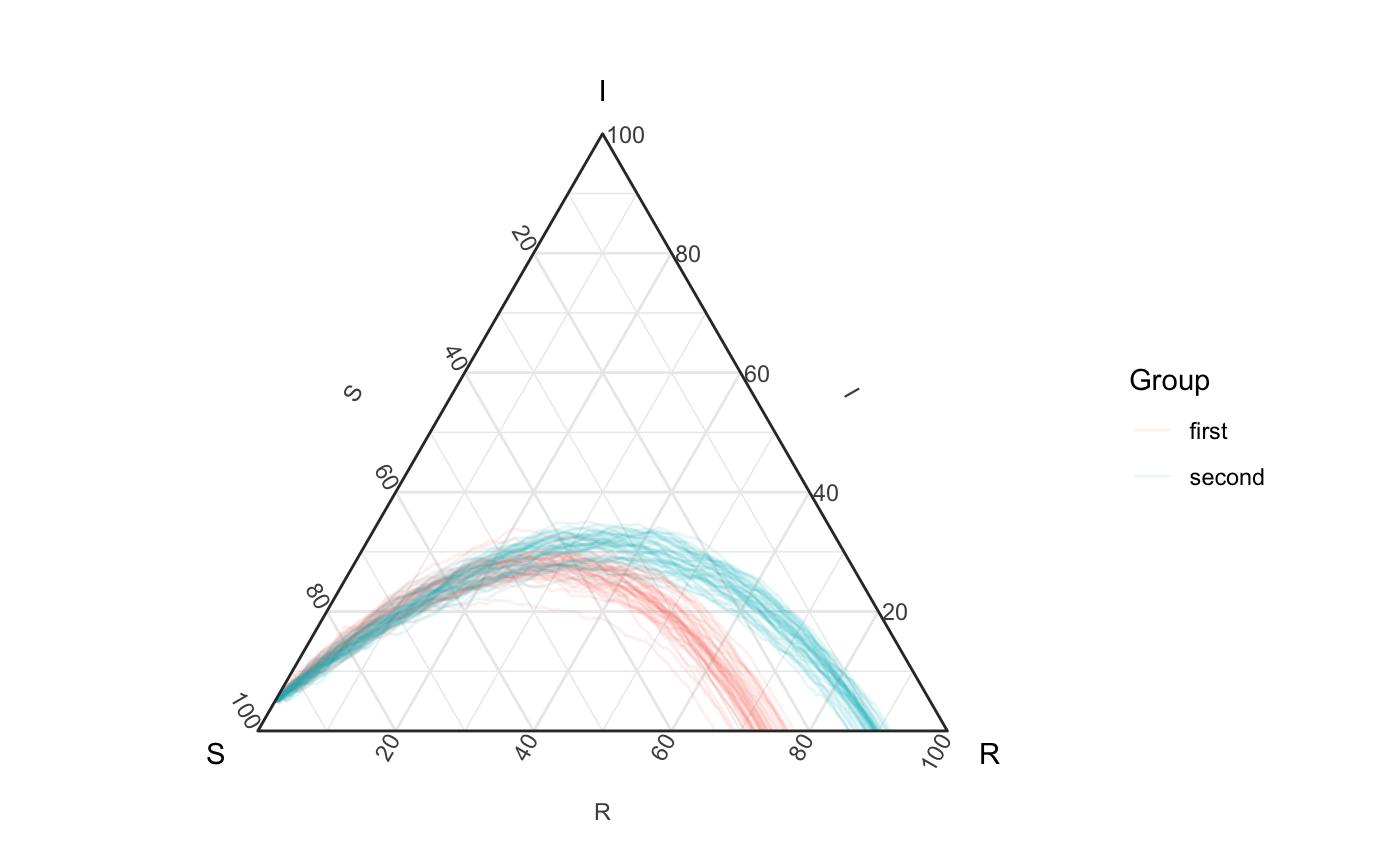
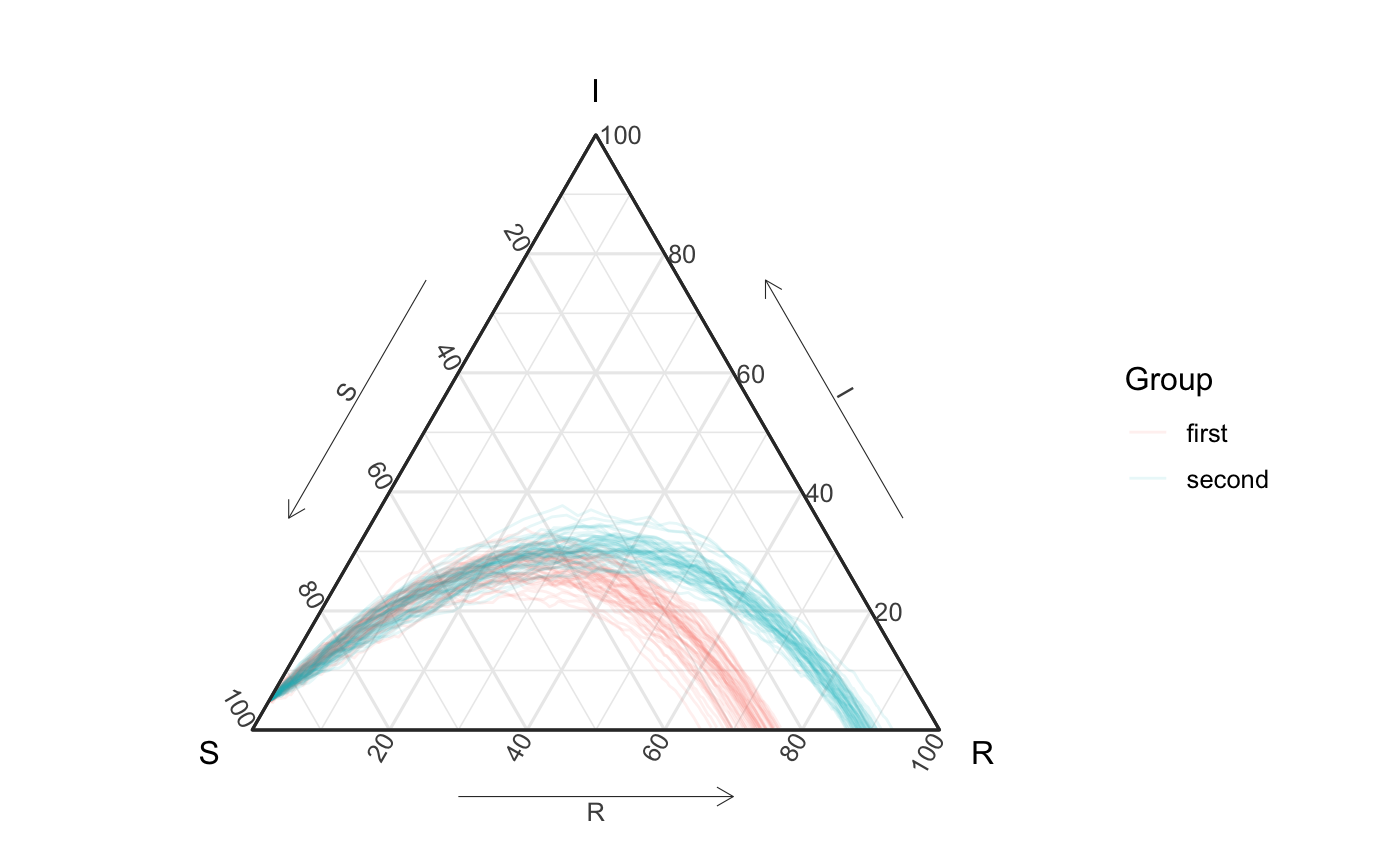
theme_sir corrected

diff --git a/docs/articles/getting-started.html b/docs/articles/getting-started.html
@@ -135,7 +135,7 @@
 <p>Our first example comes from a Measles outbreak in Hagelloch, Germany in 1861. We have data on each child (agent) in the town.The data we use (as seen below) has each child’s information relative to when they were reported to be infected and recovered, information on their school class.</p>
 <div class="sourceCode" id="cb3"><html><body><pre class="r"><span class="co">## Visualizing epidemic progression using EpiCompare</span>
 <span class="fu"><a href="https://rdrr.io/r/base/library.html">library</a></span>(<span class="no">kableExtra</span>)
-<span class="kw pkg">EpiCompare</span><span class="kw ns">::</span><span class="no">hagelloch_raw</span> <span class="kw">%&gt;%</span> <span class="fu"><a href="https://rdrr.io/r/utils/head.html">head</a></span>() <span class="kw">%&gt;%</span>
+<span class="kw pkg">EpiCompare</span><span class="kw ns">::</span><span class="no"><a href="https://rdrr.io/pkg/EpiCompare/man/hagelloch_raw.html">hagelloch_raw</a></span> <span class="kw">%&gt;%</span> <span class="fu"><a href="https://rdrr.io/r/utils/head.html">head</a></span>() <span class="kw">%&gt;%</span>
   <span class="fu"><a href="https://dplyr.tidyverse.org/reference/select.html">select</a></span>(<span class="no">PN</span>, <span class="no">NAME</span>, <span class="no">AGE</span>, <span class="no">SEX</span>,
          <span class="no">tPRO</span>, <span class="no">tERU</span>, <span class="no">tI</span>, <span class="no">tR</span>) <span class="kw">%&gt;%</span>
   <span class="kw pkg">knitr</span><span class="kw ns">::</span><span class="fu"><a href="https://rdrr.io/pkg/knitr/man/kable.html">kable</a></span>() <span class="kw">%&gt;%</span>
@@ -327,11 +327,11 @@ male
 </tbody>
 </table>
 <p>To understand to epidemic we can examine it through an “aggregate” lense (using <code>geom_aggregate</code>), which aggregates across agents to find the number of susceptible, infectious, and recovered, and plots them in the ternary view.</p>
-<div class="sourceCode" id="cb4"><html><body><pre class="r"><span class="fu"><a href="https://ggplot2.tidyverse.org/reference/theme_get.html">theme_set</a></span>(<span class="fu">theme_sir</span>())
+<div class="sourceCode" id="cb4"><html><body><pre class="r"><span class="fu"><a href="https://ggplot2.tidyverse.org/reference/theme_get.html">theme_set</a></span>(<span class="fu"><a href="https://rdrr.io/pkg/EpiCompare/man/theme_sir.html">theme_sir</a></span>())
 
 <span class="no">hagelloch_raw</span> <span class="kw">%&gt;%</span>
   <span class="fu"><a href="https://ggplot2.tidyverse.org/reference/ggplot.html">ggplot</a></span>(<span class="fu"><a href="https://ggplot2.tidyverse.org/reference/aes.html">aes</a></span>(<span class="kw">y</span> <span class="kw">=</span> <span class="no">tI</span>, <span class="kw">z</span> <span class="kw">=</span> <span class="no">tR</span>)) +
-    <span class="fu">geom_aggregate</span>() +
+    <span class="fu"><a href="https://rdrr.io/pkg/EpiCompare/man/stat_aggregate.html">geom_aggregate</a></span>() +
     <span class="fu"><a href="https://rdrr.io/pkg/ggtern/man/coord_tern.html">coord_tern</a></span>() +
     <span class="fu"><a href="https://ggplot2.tidyverse.org/reference/labs.html">labs</a></span>(<span class="kw">x</span> <span class="kw">=</span> <span class="st">"S"</span>, <span class="kw">y</span> <span class="kw">=</span> <span class="st">"I"</span>, <span class="kw">z</span> <span class="kw">=</span> <span class="st">"R"</span>, <span class="kw">title</span> <span class="kw">=</span> <span class="st">"Town analysis"</span>)
 <span class="co">#&gt; Coordinate system already present. Adding new coordinate system, which will replace the existing one.</span></pre></body></html></div>
@@ -381,7 +381,7 @@ preschool
 </table>
 <div class="sourceCode" id="cb6"><html><body><pre class="r"><span class="no">hagelloch_raw</span> <span class="kw">%&gt;%</span>
    <span class="fu"><a href="https://ggplot2.tidyverse.org/reference/ggplot.html">ggplot</a></span>(<span class="fu"><a href="https://ggplot2.tidyverse.org/reference/aes.html">aes</a></span>(<span class="kw">y</span> <span class="kw">=</span> <span class="no">tI</span>, <span class="kw">z</span> <span class="kw">=</span> <span class="no">tR</span>, <span class="kw">color</span> <span class="kw">=</span> <span class="no">CL</span>)) +
-       <span class="fu">geom_aggregate</span>() +
+       <span class="fu"><a href="https://rdrr.io/pkg/EpiCompare/man/stat_aggregate.html">geom_aggregate</a></span>() +
        <span class="fu"><a href="https://rdrr.io/pkg/ggtern/man/coord_tern.html">coord_tern</a></span>() +
        <span class="fu"><a href="https://ggplot2.tidyverse.org/reference/labs.html">labs</a></span>(<span class="kw">x</span> <span class="kw">=</span> <span class="st">"S"</span>, <span class="kw">y</span> <span class="kw">=</span> <span class="st">"I"</span>, <span class="kw">z</span> <span class="kw">=</span> <span class="st">"R"</span>,
             <span class="kw">color</span> <span class="kw">=</span> <span class="st">"School grade"</span>,
@@ -403,17 +403,17 @@ preschool
 <span class="no">gamma</span> <span class="kw">&lt;-</span> <span class="fl">.03</span>
 <span class="no">init_SIR</span> <span class="kw">&lt;-</span> <span class="fu"><a href="https://rdrr.io/r/base/c.html">c</a></span>(<span class="fl">950</span>, <span class="fl">50</span>, <span class="fl">0</span>)
 
-<span class="no">out</span> <span class="kw">&lt;-</span> <span class="kw pkg">EpiCompare</span><span class="kw ns">::</span><span class="fu">simulate_SIR_agents</span>(<span class="kw">n_sims</span> <span class="kw">=</span> <span class="no">n_sims</span>,
+<span class="no">out</span> <span class="kw">&lt;-</span> <span class="kw pkg">EpiCompare</span><span class="kw ns">::</span><span class="fu"><a href="https://rdrr.io/pkg/EpiCompare/man/simulate_SIR_agents.html">simulate_SIR_agents</a></span>(<span class="kw">n_sims</span> <span class="kw">=</span> <span class="no">n_sims</span>,
                                  <span class="kw">n_time_steps</span> <span class="kw">=</span> <span class="no">n_time_steps</span>,
                                  <span class="kw">beta</span> <span class="kw">=</span> <span class="no">beta</span>, <span class="kw">gamma</span> <span class="kw">=</span> <span class="no">gamma</span>,
                                  <span class="kw">init_SIR</span> <span class="kw">=</span> <span class="no">init_SIR</span>)
 
-<span class="no">df_ave</span> <span class="kw">&lt;-</span> <span class="no">out</span> <span class="kw">%&gt;%</span> <span class="fu">agents_to_aggregate</span>(<span class="kw">states</span> <span class="kw">=</span> <span class="fu"><a href="https://rdrr.io/r/base/c.html">c</a></span>(<span class="no">tI</span>, <span class="no">tR</span>)) <span class="kw">%&gt;%</span>
+<span class="no">df_ave</span> <span class="kw">&lt;-</span> <span class="no">out</span> <span class="kw">%&gt;%</span> <span class="fu"><a href="https://rdrr.io/pkg/EpiCompare/man/agents_to_aggregate.html">agents_to_aggregate</a></span>(<span class="kw">states</span> <span class="kw">=</span> <span class="fu"><a href="https://rdrr.io/r/base/c.html">c</a></span>(<span class="no">tI</span>, <span class="no">tR</span>)) <span class="kw">%&gt;%</span>
   <span class="fu"><a href="https://dplyr.tidyverse.org/reference/select.html">rename</a></span>(<span class="kw">S</span> <span class="kw">=</span> <span class="st">"X0"</span>, <span class="kw">I</span> <span class="kw">=</span> <span class="st">"X1"</span>, <span class="kw">R</span> <span class="kw">=</span> <span class="st">"X2"</span>) <span class="kw">%&gt;%</span>
   <span class="fu"><a href="https://dplyr.tidyverse.org/reference/group_by.html">group_by</a></span>(<span class="no">t</span>) <span class="kw">%&gt;%</span> <span class="fu"><a href="https://dplyr.tidyverse.org/reference/summarise.html">summarize</a></span>(<span class="kw">S</span> <span class="kw">=</span> <span class="fu"><a href="https://rdrr.io/r/base/mean.html">mean</a></span>(<span class="no">S</span>), <span class="kw">I</span> <span class="kw">=</span> <span class="fu"><a href="https://rdrr.io/r/base/mean.html">mean</a></span>(<span class="no">I</span>), <span class="kw">R</span> <span class="kw">=</span> <span class="fu"><a href="https://rdrr.io/r/base/mean.html">mean</a></span>(<span class="no">R</span>))
 
 
-<span class="kw">if</span> (<span class="fu">tidyr_new_interface</span>()){ <span class="co"># if tidyr version &gt; 0.8.99</span>
+<span class="kw">if</span> (<span class="fu"><a href="https://rdrr.io/pkg/EpiCompare/man/tidyr_new_interface.html">tidyr_new_interface</a></span>()){ <span class="co"># if tidyr version &gt; 0.8.99</span>
   <span class="no">df_ave_lines</span> <span class="kw">&lt;-</span> <span class="no">df_ave</span> <span class="kw">%&gt;%</span> <span class="fu"><a href="https://tidyr.tidyverse.org/reference/pivot_longer.html">pivot_longer</a></span>(<span class="kw">names_to</span> <span class="kw">=</span> <span class="st">"State"</span>,
                                           <span class="kw">values_to</span> <span class="kw">=</span> <span class="st">"Value"</span>,
                                           <span class="kw">cols</span> <span class="kw">=</span> <span class="fu"><a href="https://rdrr.io/r/base/c.html">c</a></span>(<span class="no">S</span>, <span class="no">I</span>, <span class="no">R</span>))
@@ -450,13 +450,13 @@ preschool
 <span class="no">init_SIR</span> <span class="kw">&lt;-</span> <span class="fu"><a href="https://rdrr.io/r/base/c.html">c</a></span>(<span class="fl">950</span>, <span class="fl">50</span>, <span class="fl">0</span>)
 
 
-<span class="no">out</span> <span class="kw">&lt;-</span> <span class="kw pkg">EpiCompare</span><span class="kw ns">::</span><span class="fu">simulate_SIR_agents</span>(<span class="kw">n_sims</span> <span class="kw">=</span> <span class="no">n_sims</span>,
+<span class="no">out</span> <span class="kw">&lt;-</span> <span class="kw pkg">EpiCompare</span><span class="kw ns">::</span><span class="fu"><a href="https://rdrr.io/pkg/EpiCompare/man/simulate_SIR_agents.html">simulate_SIR_agents</a></span>(<span class="kw">n_sims</span> <span class="kw">=</span> <span class="no">n_sims</span>,
                                  <span class="kw">n_time_steps</span> <span class="kw">=</span> <span class="no">n_time_steps</span>,
                                  <span class="kw">beta</span> <span class="kw">=</span> <span class="no">beta</span>, <span class="kw">gamma</span> <span class="kw">=</span> <span class="no">gamma</span>,
                                  <span class="kw">init_SIR</span> <span class="kw">=</span> <span class="no">init_SIR</span>)</pre></body></html></div>
 <p>We then use the <code>agents_to_aggregate</code> function to do the same thing (note that it preforms different for <code>grouped_df</code>s and standard <code>data.frame</code>s - as it’s a method):</p>
 <div class="sourceCode" id="cb11"><html><body><pre class="r"><span class="no">df_group</span> <span class="kw">&lt;-</span> <span class="no">out</span> <span class="kw">%&gt;%</span> <span class="fu"><a href="https://dplyr.tidyverse.org/reference/group_by.html">group_by</a></span>(<span class="no">sim</span>) <span class="kw">%&gt;%</span>
-  <span class="fu">agents_to_aggregate</span>(<span class="kw">states</span> <span class="kw">=</span> <span class="fu"><a href="https://rdrr.io/r/base/c.html">c</a></span>(<span class="st">"tI"</span>, <span class="st">"tR"</span>)) <span class="kw">%&gt;%</span>
+  <span class="fu"><a href="https://rdrr.io/pkg/EpiCompare/man/agents_to_aggregate.html">agents_to_aggregate</a></span>(<span class="kw">states</span> <span class="kw">=</span> <span class="fu"><a href="https://rdrr.io/r/base/c.html">c</a></span>(<span class="st">"tI"</span>, <span class="st">"tR"</span>)) <span class="kw">%&gt;%</span>
   <span class="fu"><a href="https://dplyr.tidyverse.org/reference/select.html">rename</a></span>(<span class="kw">S</span> <span class="kw">=</span> <span class="st">"X0"</span>, <span class="kw">I</span> <span class="kw">=</span> <span class="st">"X1"</span>, <span class="kw">R</span> <span class="kw">=</span> <span class="st">"X2"</span>)
 
 
@@ -478,7 +478,7 @@ preschool
 <p><img src="getting-started_files/figure-html/unnamed-chunk-10-1.png" width="700" style="display: block; margin: auto;"></p>
 <p>How extreme is the first simulation compared to the rest? Let’s create a empirical 95% prediction band from the later simulations.</p>
 <div class="sourceCode" id="cb13"><html><body><pre class="r"><span class="fu"><a href="https://ggplot2.tidyverse.org/reference/ggplot.html">ggplot</a></span>() +
-  <span class="fu">geom_prediction_band</span>(<span class="kw">data</span> <span class="kw">=</span> <span class="no">df_group</span>,
+  <span class="fu"><a href="https://rdrr.io/pkg/EpiCompare/man/geom_prediction_band.html">geom_prediction_band</a></span>(<span class="kw">data</span> <span class="kw">=</span> <span class="no">df_group</span>,
                        <span class="fu"><a href="https://ggplot2.tidyverse.org/reference/aes.html">aes</a></span>(<span class="kw">x</span> <span class="kw">=</span> <span class="no">S</span>, <span class="kw">y</span> <span class="kw">=</span> <span class="no">I</span>, <span class="kw">z</span> <span class="kw">=</span> <span class="no">R</span>,
                            <span class="kw">sim_group</span> <span class="kw">=</span> <span class="fu"><a href="https://rdrr.io/r/base/numeric.html">as.numeric</a></span>(<span class="fu"><a href="https://rdrr.io/r/base/character.html">as.character</a></span>(<span class="no">sim</span>))),
                        <span class="kw">fill</span> <span class="kw">=</span> <span class="st">"blue"</span>, <span class="kw">color</span> <span class="kw">=</span> <span class="fl">NA</span>, <span class="kw">alpha</span> <span class="kw">=</span> <span class="fl">.2</span>,
@@ -492,7 +492,7 @@ preschool
 <p><img src="getting-started_files/figure-html/unnamed-chunk-11-1.png" width="700" style="display: block; margin: auto;"></p>
 <div class="sourceCode" id="cb14"><html><body><pre class="r"># note: the error message actually comes from the geom_path</pre></body></html></div>
 <p>Here’s a demo of all current geometric tools to create prediction bands:</p>
-<div class="sourceCode" id="cb15"><html><body><pre class="r"><span class="no">vis_data</span> <span class="kw">&lt;-</span> <span class="kw pkg">EpiCompare</span><span class="kw ns">::</span><span class="no">pomp_df</span> <span class="kw">%&gt;%</span>
+<div class="sourceCode" id="cb15"><html><body><pre class="r"><span class="no">vis_data</span> <span class="kw">&lt;-</span> <span class="kw pkg">EpiCompare</span><span class="kw ns">::</span><span class="no"><a href="https://rdrr.io/pkg/EpiCompare/man/pomp_df.html">pomp_df</a></span> <span class="kw">%&gt;%</span>
   <span class="fu"><a href="https://dplyr.tidyverse.org/reference/select.html">rename</a></span>(<span class="kw">x</span> <span class="kw">=</span> <span class="st">"S"</span>, <span class="kw">y</span> <span class="kw">=</span> <span class="st">"I"</span>, <span class="kw">z</span> <span class="kw">=</span> <span class="st">"R"</span>) <span class="kw">%&gt;%</span>
   <span class="fu"><a href="https://ggplot2.tidyverse.org/reference/ggplot.html">ggplot</a></span>(<span class="fu"><a href="https://ggplot2.tidyverse.org/reference/aes.html">aes</a></span>(<span class="kw">x</span> <span class="kw">=</span> <span class="no">x</span>, <span class="kw">y</span> <span class="kw">=</span><span class="no">y</span>, <span class="kw">z</span> <span class="kw">=</span> <span class="no">z</span>, <span class="kw">group</span> <span class="kw">=</span> <span class="no">.id</span>)) +
   <span class="fu"><a href="https://ggplot2.tidyverse.org/reference/geom_path.html">geom_path</a></span>(<span class="kw">alpha</span> <span class="kw">=</span> <span class="fl">.03</span>) +
@@ -500,43 +500,43 @@ preschool
   <span class="fu"><a href="https://ggplot2.tidyverse.org/reference/labs.html">labs</a></span>(<span class="kw">title</span> <span class="kw">=</span> <span class="st">"Actually data paths"</span>)
 <span class="co">#&gt; Coordinate system already present. Adding new coordinate system, which will replace the existing one.</span>
 
-<span class="no">vis_spherical</span> <span class="kw">&lt;-</span> <span class="kw pkg">EpiCompare</span><span class="kw ns">::</span><span class="no">pomp_df</span> <span class="kw">%&gt;%</span>
+<span class="no">vis_spherical</span> <span class="kw">&lt;-</span> <span class="kw pkg">EpiCompare</span><span class="kw ns">::</span><span class="no"><a href="https://rdrr.io/pkg/EpiCompare/man/pomp_df.html">pomp_df</a></span> <span class="kw">%&gt;%</span>
   <span class="fu"><a href="https://dplyr.tidyverse.org/reference/select.html">rename</a></span>(<span class="kw">x</span> <span class="kw">=</span> <span class="st">"S"</span>, <span class="kw">y</span> <span class="kw">=</span> <span class="st">"I"</span>, <span class="kw">z</span> <span class="kw">=</span> <span class="st">"R"</span>, <span class="kw">t</span> <span class="kw">=</span> <span class="st">"time"</span>) <span class="kw">%&gt;%</span>
   <span class="fu"><a href="https://ggplot2.tidyverse.org/reference/ggplot.html">ggplot</a></span>(<span class="fu"><a href="https://ggplot2.tidyverse.org/reference/aes.html">aes</a></span>(<span class="kw">x</span> <span class="kw">=</span> <span class="no">x</span>, <span class="kw">y</span> <span class="kw">=</span> <span class="no">y</span>, <span class="kw">z</span> <span class="kw">=</span> <span class="no">z</span>, <span class="kw">t</span> <span class="kw">=</span> <span class="no">t</span>)) +
-  <span class="fu">geom_prediction_band</span>(<span class="kw">pb_type</span> <span class="kw">=</span> <span class="st">"spherical_ball"</span>,
+  <span class="fu"><a href="https://rdrr.io/pkg/EpiCompare/man/geom_prediction_band.html">geom_prediction_band</a></span>(<span class="kw">pb_type</span> <span class="kw">=</span> <span class="st">"spherical_ball"</span>,
                        <span class="kw">grid_size</span> <span class="kw">=</span> <span class="fu"><a href="https://rdrr.io/r/base/rep.html">rep</a></span>(<span class="fl">100</span>,<span class="fl">2</span>),
                        <span class="kw">conf_level</span> <span class="kw">=</span> <span class="fl">.95</span>) +
   <span class="fu"><a href="https://rdrr.io/pkg/ggtern/man/coord_tern.html">coord_tern</a></span>() +
   <span class="fu"><a href="https://ggplot2.tidyverse.org/reference/labs.html">labs</a></span>(<span class="kw">title</span> <span class="kw">=</span> <span class="st">"Spherical CB"</span>)
 <span class="co">#&gt; Coordinate system already present. Adding new coordinate system, which will replace the existing one.</span>
 
-<span class="no">vis_delta_ball</span> <span class="kw">&lt;-</span> <span class="kw pkg">EpiCompare</span><span class="kw ns">::</span><span class="no">pomp_df</span> <span class="kw">%&gt;%</span>
+<span class="no">vis_delta_ball</span> <span class="kw">&lt;-</span> <span class="kw pkg">EpiCompare</span><span class="kw ns">::</span><span class="no"><a href="https://rdrr.io/pkg/EpiCompare/man/pomp_df.html">pomp_df</a></span> <span class="kw">%&gt;%</span>
   <span class="fu"><a href="https://dplyr.tidyverse.org/reference/select.html">rename</a></span>(<span class="kw">x</span> <span class="kw">=</span> <span class="st">"S"</span>, <span class="kw">y</span> <span class="kw">=</span> <span class="st">"I"</span>, <span class="kw">z</span> <span class="kw">=</span> <span class="st">"R"</span>) <span class="kw">%&gt;%</span>
   <span class="fu"><a href="https://dplyr.tidyverse.org/reference/mutate.html">mutate</a></span>(<span class="kw">.id</span> <span class="kw">=</span> <span class="fu"><a href="https://rdrr.io/r/base/numeric.html">as.numeric</a></span>(<span class="no">.id</span>)) <span class="kw">%&gt;%</span>
   <span class="fu"><a href="https://ggplot2.tidyverse.org/reference/ggplot.html">ggplot</a></span>(<span class="fu"><a href="https://ggplot2.tidyverse.org/reference/aes.html">aes</a></span>(<span class="kw">x</span> <span class="kw">=</span> <span class="no">x</span>, <span class="kw">y</span> <span class="kw">=</span> <span class="no">y</span>, <span class="kw">z</span> <span class="kw">=</span> <span class="no">z</span>, <span class="kw">sim_group</span> <span class="kw">=</span> <span class="no">.id</span>)) +
-  <span class="fu">geom_prediction_band</span>(<span class="kw">pb_type</span> <span class="kw">=</span> <span class="st">"delta_ball"</span>,
+  <span class="fu"><a href="https://rdrr.io/pkg/EpiCompare/man/geom_prediction_band.html">geom_prediction_band</a></span>(<span class="kw">pb_type</span> <span class="kw">=</span> <span class="st">"delta_ball"</span>,
                        <span class="kw">grid_size</span> <span class="kw">=</span> <span class="fu"><a href="https://rdrr.io/r/base/rep.html">rep</a></span>(<span class="fl">100</span>,<span class="fl">2</span>),
                        <span class="kw">conf_level</span> <span class="kw">=</span> <span class="fl">.95</span>) +
   <span class="fu"><a href="https://rdrr.io/pkg/ggtern/man/coord_tern.html">coord_tern</a></span>() +
   <span class="fu"><a href="https://ggplot2.tidyverse.org/reference/labs.html">labs</a></span>(<span class="kw">title</span> <span class="kw">=</span> <span class="st">"Delta-ball CB"</span>)
 <span class="co">#&gt; Coordinate system already present. Adding new coordinate system, which will replace the existing one.</span>
 
-<span class="no">vis_kde</span> <span class="kw">&lt;-</span> <span class="kw pkg">EpiCompare</span><span class="kw ns">::</span><span class="no">pomp_df</span> <span class="kw">%&gt;%</span>
+<span class="no">vis_kde</span> <span class="kw">&lt;-</span> <span class="kw pkg">EpiCompare</span><span class="kw ns">::</span><span class="no"><a href="https://rdrr.io/pkg/EpiCompare/man/pomp_df.html">pomp_df</a></span> <span class="kw">%&gt;%</span>
   <span class="fu"><a href="https://dplyr.tidyverse.org/reference/select.html">rename</a></span>(<span class="kw">x</span> <span class="kw">=</span> <span class="st">"S"</span>, <span class="kw">y</span> <span class="kw">=</span> <span class="st">"I"</span>, <span class="kw">z</span> <span class="kw">=</span> <span class="st">"R"</span>) <span class="kw">%&gt;%</span>
   <span class="fu"><a href="https://dplyr.tidyverse.org/reference/mutate.html">mutate</a></span>(<span class="kw">.id</span> <span class="kw">=</span> <span class="fu"><a href="https://rdrr.io/r/base/numeric.html">as.numeric</a></span>(<span class="no">.id</span>)) <span class="kw">%&gt;%</span>
   <span class="fu"><a href="https://ggplot2.tidyverse.org/reference/ggplot.html">ggplot</a></span>(<span class="fu"><a href="https://ggplot2.tidyverse.org/reference/aes.html">aes</a></span>(<span class="kw">x</span> <span class="kw">=</span> <span class="no">x</span>, <span class="kw">y</span> <span class="kw">=</span> <span class="no">y</span>, <span class="kw">z</span> <span class="kw">=</span> <span class="no">z</span>, <span class="kw">sim_group</span> <span class="kw">=</span> <span class="no">.id</span>)) +
-  <span class="fu">geom_prediction_band</span>(<span class="kw">pb_type</span> <span class="kw">=</span> <span class="st">"kde"</span>,
+  <span class="fu"><a href="https://rdrr.io/pkg/EpiCompare/man/geom_prediction_band.html">geom_prediction_band</a></span>(<span class="kw">pb_type</span> <span class="kw">=</span> <span class="st">"kde"</span>,
                        <span class="kw">grid_size</span> <span class="kw">=</span> <span class="fu"><a href="https://rdrr.io/r/base/rep.html">rep</a></span>(<span class="fl">100</span>,<span class="fl">2</span>),
                        <span class="kw">conf_level</span> <span class="kw">=</span> <span class="fl">.95</span>) +
   <span class="fu"><a href="https://rdrr.io/pkg/ggtern/man/coord_tern.html">coord_tern</a></span>() +
   <span class="fu"><a href="https://ggplot2.tidyverse.org/reference/labs.html">labs</a></span>(<span class="kw">title</span> <span class="kw">=</span> <span class="st">"KDE CB"</span>)
 <span class="co">#&gt; Coordinate system already present. Adding new coordinate system, which will replace the existing one.</span>
 
-<span class="no">vis_convex_hull</span> <span class="kw">&lt;-</span> <span class="kw pkg">EpiCompare</span><span class="kw ns">::</span><span class="no">pomp_df</span> <span class="kw">%&gt;%</span>
+<span class="no">vis_convex_hull</span> <span class="kw">&lt;-</span> <span class="kw pkg">EpiCompare</span><span class="kw ns">::</span><span class="no"><a href="https://rdrr.io/pkg/EpiCompare/man/pomp_df.html">pomp_df</a></span> <span class="kw">%&gt;%</span>
   <span class="fu"><a href="https://dplyr.tidyverse.org/reference/select.html">rename</a></span>(<span class="kw">x</span> <span class="kw">=</span> <span class="st">"S"</span>, <span class="kw">y</span> <span class="kw">=</span> <span class="st">"I"</span>, <span class="kw">z</span> <span class="kw">=</span> <span class="st">"R"</span>) <span class="kw">%&gt;%</span>
   <span class="fu"><a href="https://dplyr.tidyverse.org/reference/mutate.html">mutate</a></span>(<span class="kw">.id</span> <span class="kw">=</span> <span class="fu"><a href="https://rdrr.io/r/base/numeric.html">as.numeric</a></span>(<span class="no">.id</span>)) <span class="kw">%&gt;%</span>
   <span class="fu"><a href="https://ggplot2.tidyverse.org/reference/ggplot.html">ggplot</a></span>(<span class="fu"><a href="https://ggplot2.tidyverse.org/reference/aes.html">aes</a></span>(<span class="kw">x</span> <span class="kw">=</span> <span class="no">x</span>, <span class="kw">y</span> <span class="kw">=</span> <span class="no">y</span>, <span class="kw">z</span> <span class="kw">=</span> <span class="no">z</span>, <span class="kw">sim_group</span> <span class="kw">=</span> <span class="no">.id</span>)) +
-  <span class="fu">geom_prediction_band</span>(<span class="kw">pb_type</span> <span class="kw">=</span> <span class="st">"convex_hull"</span>,
+  <span class="fu"><a href="https://rdrr.io/pkg/EpiCompare/man/geom_prediction_band.html">geom_prediction_band</a></span>(<span class="kw">pb_type</span> <span class="kw">=</span> <span class="st">"convex_hull"</span>,
             <span class="kw">conf_level</span> <span class="kw">=</span> <span class="fl">.95</span>) +
   <span class="fu"><a href="https://rdrr.io/pkg/ggtern/man/coord_tern.html">coord_tern</a></span>() +
  <span class="fu"><a href="https://ggplot2.tidyverse.org/reference/labs.html">labs</a></span>(<span class="kw">title</span> <span class="kw">=</span> <span class="st">"Convex hull CB"</span>)

diff --git a/docs/articles/not-built-vignettes/ternary-plots-explained.html b/docs/articles/not-built-vignettes/ternary-plots-explained.html
@@ -127,8 +127,8 @@
 \]</span></p>
 <p>Our ternary plots are a specific case where <span class="math inline">\(p\)</span> is equal to 3. In 3d the unit simplex actually looks like the following:</p>
 <center>
-<div id="htmlwidget-26a27d5b34d18eb1dc45" style="width:700px;height:432.632880098888px;" class="plotly html-widget"></div>
-<script type="application/json" data-for="htmlwidget-26a27d5b34d18eb1dc45">{"x":{"visdat":{"17d1137d63e20":["function () ","plotlyVisDat"]},"cur_data":"17d1137d63e20","attrs":{"17d1137d63e20":{"alpha_stroke":1,"sizes":[10,100],"spans":[1,20],"x":[1,0,0],"y":[0,1,0],"z":[0,0,1],"facecolor":"grey","opacity":0.5,"type":"mesh3d","inherit":true},"17d1137d63e20.1":{"alpha_stroke":1,"sizes":[10,100],"spans":[1,20],"x":[0,1],"y":[0,0],"z":[0,0],"type":"scatter3d","mode":"lines","line":{"width":6,"color":"black"},"inherit":true},"17d1137d63e20.2":{"alpha_stroke":1,"sizes":[10,100],"spans":[1,20],"x":[0,0],"y":[0,1],"z":[0,0],"type":"scatter3d","mode":"lines","line":{"width":6,"color":"black"},"inherit":true},"17d1137d63e20.3":{"alpha_stroke":1,"sizes":[10,100],"spans":[1,20],"x":[0,0],"y":[0,0],"z":[0,1],"type":"scatter3d","mode":"lines","line":{"width":6,"color":"black"},"inherit":true}},"layout":{"margin":{"b":40,"l":60,"t":25,"r":10},"title":"3d Unit Simplex","scene":{"camera":{"eye":{"x":1.875,"y":0.75,"z":1.125}},"xaxis":{"title":[]},"yaxis":{"title":[]},"zaxis":{"title":[]}},"showlegend":false,"hovermode":"closest"},"source":"A","config":{"showSendToCloud":false},"data":[{"colorbar":{"title":"","ticklen":2},"colorscale":[["0","rgba(68,1,84,1)"],["0.0416666666666667","rgba(70,19,97,1)"],["0.0833333333333333","rgba(72,32,111,1)"],["0.125","rgba(71,45,122,1)"],["0.166666666666667","rgba(68,58,128,1)"],["0.208333333333333","rgba(64,70,135,1)"],["0.25","rgba(60,82,138,1)"],["0.291666666666667","rgba(56,93,140,1)"],["0.333333333333333","rgba(49,104,142,1)"],["0.375","rgba(46,114,142,1)"],["0.416666666666667","rgba(42,123,142,1)"],["0.458333333333333","rgba(38,133,141,1)"],["0.5","rgba(37,144,140,1)"],["0.541666666666667","rgba(33,154,138,1)"],["0.583333333333333","rgba(39,164,133,1)"],["0.625","rgba(47,174,127,1)"],["0.666666666666667","rgba(53,183,121,1)"],["0.708333333333333","rgba(79,191,110,1)"],["0.75","rgba(98,199,98,1)"],["0.791666666666667","rgba(119,207,85,1)"],["0.833333333333333","rgba(147,214,70,1)"],["0.875","rgba(172,220,52,1)"],["0.916666666666667","rgba(199,225,42,1)"],["0.958333333333333","rgba(226,228,40,1)"],["1","rgba(253,231,37,1)"]],"showscale":true,"x":[1,0,0],"y":[0,1,0],"z":[0,0,1],"facecolor":["grey"],"opacity":0.5,"type":"mesh3d","frame":null},{"x":[0,1],"y":[0,0],"z":[0,0],"type":"scatter3d","mode":"lines","line":{"color":"black","width":6},"marker":{"color":"rgba(255,127,14,1)","line":{"color":"rgba(255,127,14,1)"}},"error_y":{"color":"rgba(255,127,14,1)"},"error_x":{"color":"rgba(255,127,14,1)"},"frame":null},{"x":[0,0],"y":[0,1],"z":[0,0],"type":"scatter3d","mode":"lines","line":{"color":"black","width":6},"marker":{"color":"rgba(44,160,44,1)","line":{"color":"rgba(44,160,44,1)"}},"error_y":{"color":"rgba(44,160,44,1)"},"error_x":{"color":"rgba(44,160,44,1)"},"frame":null},{"x":[0,0],"y":[0,0],"z":[0,1],"type":"scatter3d","mode":"lines","line":{"color":"black","width":6},"marker":{"color":"rgba(214,39,40,1)","line":{"color":"rgba(214,39,40,1)"}},"error_y":{"color":"rgba(214,39,40,1)"},"error_x":{"color":"rgba(214,39,40,1)"},"frame":null}],"highlight":{"on":"plotly_click","persistent":false,"dynamic":false,"selectize":false,"opacityDim":0.2,"selected":{"opacity":1},"debounce":0},"shinyEvents":["plotly_hover","plotly_click","plotly_selected","plotly_relayout","plotly_brushed","plotly_brushing","plotly_clickannotation","plotly_doubleclick","plotly_deselect","plotly_afterplot","plotly_sunburstclick"],"base_url":"https://plot.ly"},"evals":[],"jsHooks":[]}</script>
+<div id="htmlwidget-8ba65068b1f7da8dc52a" style="width:700px;height:432.632880098888px;" class="plotly html-widget"></div>
+<script type="application/json" data-for="htmlwidget-8ba65068b1f7da8dc52a">{"x":{"visdat":{"107b750c6f117":["function () ","plotlyVisDat"]},"cur_data":"107b750c6f117","attrs":{"107b750c6f117":{"alpha_stroke":1,"sizes":[10,100],"spans":[1,20],"x":[1,0,0],"y":[0,1,0],"z":[0,0,1],"facecolor":"grey","opacity":0.5,"type":"mesh3d","inherit":true},"107b750c6f117.1":{"alpha_stroke":1,"sizes":[10,100],"spans":[1,20],"x":[0,1],"y":[0,0],"z":[0,0],"type":"scatter3d","mode":"lines","line":{"width":6,"color":"black"},"inherit":true},"107b750c6f117.2":{"alpha_stroke":1,"sizes":[10,100],"spans":[1,20],"x":[0,0],"y":[0,1],"z":[0,0],"type":"scatter3d","mode":"lines","line":{"width":6,"color":"black"},"inherit":true},"107b750c6f117.3":{"alpha_stroke":1,"sizes":[10,100],"spans":[1,20],"x":[0,0],"y":[0,0],"z":[0,1],"type":"scatter3d","mode":"lines","line":{"width":6,"color":"black"},"inherit":true}},"layout":{"margin":{"b":40,"l":60,"t":25,"r":10},"title":"3d Unit Simplex","scene":{"camera":{"eye":{"x":1.875,"y":0.75,"z":1.125}},"xaxis":{"title":[]},"yaxis":{"title":[]},"zaxis":{"title":[]}},"showlegend":false,"hovermode":"closest"},"source":"A","config":{"showSendToCloud":false},"data":[{"colorbar":{"title":"","ticklen":2},"colorscale":[["0","rgba(68,1,84,1)"],["0.0416666666666667","rgba(70,19,97,1)"],["0.0833333333333333","rgba(72,32,111,1)"],["0.125","rgba(71,45,122,1)"],["0.166666666666667","rgba(68,58,128,1)"],["0.208333333333333","rgba(64,70,135,1)"],["0.25","rgba(60,82,138,1)"],["0.291666666666667","rgba(56,93,140,1)"],["0.333333333333333","rgba(49,104,142,1)"],["0.375","rgba(46,114,142,1)"],["0.416666666666667","rgba(42,123,142,1)"],["0.458333333333333","rgba(38,133,141,1)"],["0.5","rgba(37,144,140,1)"],["0.541666666666667","rgba(33,154,138,1)"],["0.583333333333333","rgba(39,164,133,1)"],["0.625","rgba(47,174,127,1)"],["0.666666666666667","rgba(53,183,121,1)"],["0.708333333333333","rgba(79,191,110,1)"],["0.75","rgba(98,199,98,1)"],["0.791666666666667","rgba(119,207,85,1)"],["0.833333333333333","rgba(147,214,70,1)"],["0.875","rgba(172,220,52,1)"],["0.916666666666667","rgba(199,225,42,1)"],["0.958333333333333","rgba(226,228,40,1)"],["1","rgba(253,231,37,1)"]],"showscale":true,"x":[1,0,0],"y":[0,1,0],"z":[0,0,1],"facecolor":["grey"],"opacity":0.5,"type":"mesh3d","frame":null},{"x":[0,1],"y":[0,0],"z":[0,0],"type":"scatter3d","mode":"lines","line":{"color":"black","width":6},"marker":{"color":"rgba(255,127,14,1)","line":{"color":"rgba(255,127,14,1)"}},"error_y":{"color":"rgba(255,127,14,1)"},"error_x":{"color":"rgba(255,127,14,1)"},"frame":null},{"x":[0,0],"y":[0,1],"z":[0,0],"type":"scatter3d","mode":"lines","line":{"color":"black","width":6},"marker":{"color":"rgba(44,160,44,1)","line":{"color":"rgba(44,160,44,1)"}},"error_y":{"color":"rgba(44,160,44,1)"},"error_x":{"color":"rgba(44,160,44,1)"},"frame":null},{"x":[0,0],"y":[0,0],"z":[0,1],"type":"scatter3d","mode":"lines","line":{"color":"black","width":6},"marker":{"color":"rgba(214,39,40,1)","line":{"color":"rgba(214,39,40,1)"}},"error_y":{"color":"rgba(214,39,40,1)"},"error_x":{"color":"rgba(214,39,40,1)"},"frame":null}],"highlight":{"on":"plotly_click","persistent":false,"dynamic":false,"selectize":false,"opacityDim":0.2,"selected":{"opacity":1},"debounce":0},"shinyEvents":["plotly_hover","plotly_click","plotly_selected","plotly_relayout","plotly_brushed","plotly_brushing","plotly_clickannotation","plotly_doubleclick","plotly_deselect","plotly_afterplot","plotly_sunburstclick"],"base_url":"https://plot.ly"},"evals":[],"jsHooks":[]}</script>
 </center>
 <p>And a ternary plot is just a projection of this simplex onto a 2d surface.</p>
 </div>
